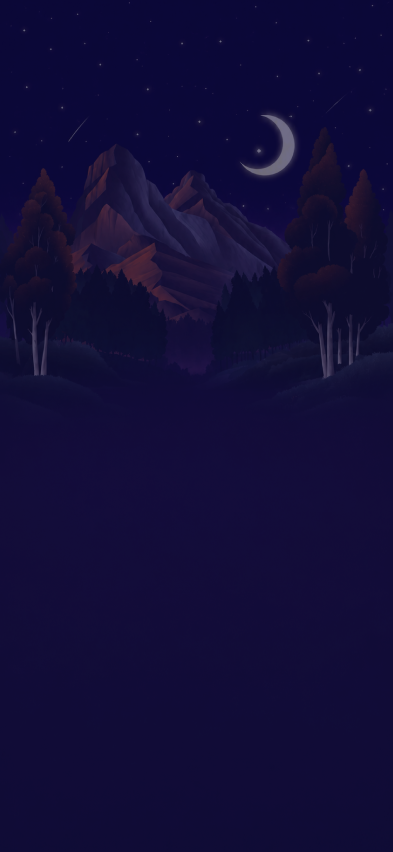
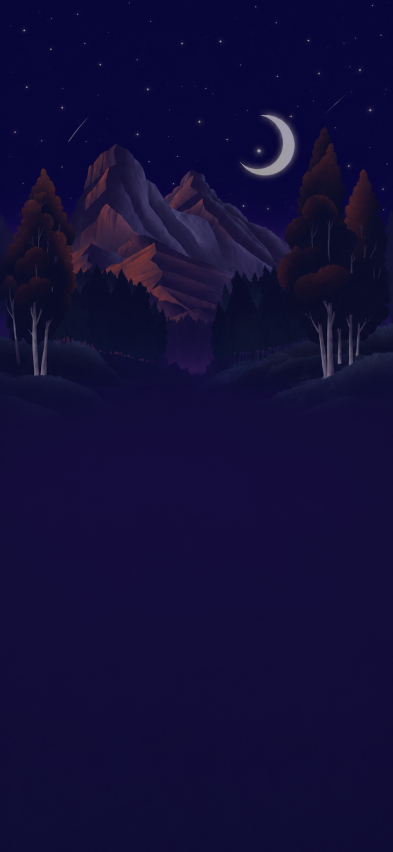
css updates

diff --git a/src/screens/ChaptersScreen.jsx b/src/screens/ChaptersScreen.jsx
@@ -3,7 +3,6 @@ import { useApp } from '../AppContext';
 import { StarsWrapper, TopBar, C } from '../components/shared';
 import { CHAPTERS } from '../data';
 import sofieImg from '../assets/sofie-startside.png';
-import sofieSmallImg from '../assets/sofie-startside-to.png';
 import kapitelGrotte from '../assets/kapitel-grotte.png';
 import kapitelAkademi from '../assets/kapitel-akademi.png';
 import kapitelDetEvige from '../assets/kapitel-detevige.png';
@@ -88,42 +87,29 @@ const expandGirl = () => updateState({ girlLarge: true });
         <TopBar />
 
         {/* Chapter grid */}
-        <div className={`scrollable flex-1 px-4 pb-5 ${state.girlLarge ? 'pointer-events-none' : ''}`}>
-          <h1 className="text-brand-accent text-4xl font-black mb-0.5 font-fredoka">Velkommen</h1>
+        <div className={`scrollable flex-1 px-4 pt-4 pb-5 ${state.girlLarge ? 'pointer-events-none' : ''}`}>
+          <h1 className="text-brand-accent text-5xl font-semibold mb-0.5 font-fredoka">Velkommen</h1>
           <p className="text-[#F0EAFF] text-base font-semibold font-opensans mb-4">Vælg et kapitel for at starte et spil</p>
 
-          <div style={{ display: 'grid', gridTemplateColumns: '1fr 1fr', gap: 10 }}>
+          <div className="grid grid-cols-2 gap-2.5">
             
             {/* Cave — stor venstre kort */}
-            <div style={{ gridRow: 'span 2', display: 'flex', flexDirection: 'column' }}>
+            <div className="row-span-2 flex flex-col">
               <button
                 onClick={handleCaveClick}
+                className="flex-1 relative flex flex-col justify-end items-start p-2.5 rounded-2xl overflow-hidden cursor-pointer min-h-[190px]"
                 style={{
-                  flex: 1,
                   backgroundImage: `url(${kapitelGrotte})`,
                   backgroundSize: 'cover',
                   backgroundPosition: 'center',
-                  borderRadius: 16,
                   border: '1.5px solid rgba(245,200,66,0.3)',
-                  overflow: 'hidden',
-                  position: 'relative',
-                  cursor: 'pointer',
-                  display: 'flex',
-                  flexDirection: 'column',
-                  justifyContent: 'flex-end',
-                  alignItems: 'flex-start',
-                  padding: 10,
-                  minHeight: 190,
                 }}
               >
                 <p className="text-[#F0EAFF] text-base font-fredoka font-bold leading-tight relative z-10 max-w-[120px] text-left">
                   {CHAPTERS[0].title}
                 </p>
-                <div style={{
-                  position: 'absolute', bottom: 10, right: 10, width: 24, height: 24, borderRadius: '50%',
-                  background: 'rgba(255,255,255,0.2)', display: 'flex', alignItems: 'center', justifyContent: 'center',
-                }}>
-                  <span style={{ fontSize: 10, marginLeft: 1 }}>▶</span>
+                <div className="absolute bottom-2 right-2 w-7 h-7 rounded-full flex items-center justify-center bg-white/20">
+                  <span className="text-base ml-px">▶</span>
                 </div>
               </button>
             </div>
@@ -151,17 +137,13 @@ const expandGirl = () => updateState({ girlLarge: true });
 
               {/* Tekst i taleboble */}
               <div
-                style={{
-                  position: 'absolute',
-                  top: '4%', left: '42%', right: '11%', height: '22%',
-                  padding: '8px 10px',
-                  overflow: 'hidden',
-                }}
+                className="absolute overflow-hidden"
+                style={{ top: '4%', left: '42%', right: '13%', height: '22%', padding: '8px 10px' }}
               >
                 <p
+                  className="font-opensans font-semibold"
                   style={{
                     fontSize: 11.5,
-                    fontWeight: 600,
                     lineHeight: 1.4,
                     color: '#1A1A1A',
                     wordBreak: 'break-word',
@@ -177,19 +159,8 @@ const expandGirl = () => updateState({ girlLarge: true });
               {/* Fortsæt knap */}
               <button
                 onClick={shrinkGirl}
-                style={{
-                  position: 'absolute',
-                  top: '27%', left: '44%',
-                  background: 'none',
-                  border: 'none',
-                  outline: 'none',
-                  padding: 0,
-                  fontSize: 14,
-                  fontFamily: 'Open Sans, sans-serif',
-                  color: '#1A1A1A',
-                  cursor: 'pointer',
-                  zIndex: 10,
-                }}
+                className="absolute bg-transparent border-none outline-none p-0 cursor-pointer z-10 font-opensans font-bold text-[14px]"
+                style={{ top: '27%', left: '44%', color: '#1A1A1A' }}
               >
                 Fortsæt →
               </button>
@@ -203,12 +174,7 @@ const expandGirl = () => updateState({ girlLarge: true });
             onClick={expandGirl}
             className="absolute bottom-0 left-0 bg-transparent border-none outline-none p-0 cursor-pointer z-20"
           >
-            <img
-              src={sofieVinkerImg}
-              alt="Sofie"
-              draggable={false}
-              className=" w-auto block"
-            />
+            <img src={sofieVinkerImg} alt="Sofie" draggable={false} className="w-auto block" />
           </button>
         )}
       </div>

diff --git a/src/screens/BadgesScreen.jsx b/src/screens/BadgesScreen.jsx
@@ -11,20 +11,34 @@ export default function BadgesScreen() {
       <div className="flex-1 flex flex-col overflow-hidden">
         <TopBar />
 
-        <div className="scrollable flex-1 px-5 pt-1 pb-3">
-          <h1 className="text-brand-accent text-4xl font-black mb-5">Badges</h1>
+        <div className="scrollable flex-1 px-5 pt-16 pb-3">
+          <h1 className="text-brand-accent flex justify-center text-5xl font-semibold font-fredoka mb-5">Badges</h1>
 
           {/* Stats */}
-          <div className="flex gap-4 mb-6">
-            <div className="flex-1 bg-brand-navy rounded-2xl px-3 py-4 text-center"
-                 style={{ border: `2px solid ${C.accent}` }}>
-              <p className="text-brand-sub text-xs font-bold mb-1">Badges</p>
-              <p className="text-brand-accent text-4xl font-black">{state.badges}</p>
+          <div className="flex gap-10 justify-center w-full mt-16 mb-10">
+            <div
+              className="w-[90px] bg-brand-navy rounded-xl text-center relative"
+              style={{ border: `2px solid ${C.accent}`, padding: '8px 12px' }}
+            >
+              <p className="absolute -top-7 left-0 right-0 text-center text-base font-opensans"
+                style={{ color: '#F0EAFF' }}>
+                Badges
+              </p>
+              <p className="text-brand-accent text-2xl font-black font-fredoka">
+                {state.badges}
+              </p>
             </div>
-            <div className="flex-1 bg-brand-navy rounded-2xl px-3 py-4 text-center"
-                 style={{ border: `2px solid ${C.accent}` }}>
-              <p className="text-brand-sub text-xs font-bold mb-1">Point</p>
-              <p className="text-brand-accent text-4xl font-black">{state.points}</p>
+            <div
+              className="w-[90px] bg-brand-navy rounded-xl text-center relative"
+              style={{ border: `2px solid ${C.accent}`, padding: '8px 12px' }}
+            >
+              <p className="absolute -top-7 left-0 right-0 text-center text-base font-opensans"
+                style={{ color: '#F0EAFF' }}>
+                Point
+              </p>
+              <p className="text-brand-accent text-2xl font-black font-fredoka">
+                {state.points}
+              </p>
             </div>
           </div>
 
@@ -42,8 +56,8 @@ export default function BadgesScreen() {
             <div className="bg-brand-navy rounded-2xl px-4 py-4 flex items-center gap-3 border border-white/[0.08] opacity-50">
               <span className="text-4xl">🔒</span>
               <div className="flex-1">
-                <p className="text-white text-base font-extrabold">Hulelignelsen</p>
-                <p className="text-brand-sub text-xs font-semibold">Gennemfør quizzen for at låse op</p>
+                <p className="text-[#AA85FF] text-base font-opensans font-extrabold">Hulelignelsen</p>
+                <p className="text-brand-sub text-sm font-opensans font-semibold">Gennemfør quizzen for at låse op</p>
               </div>
             </div>
           )}

diff --git a/src/screens/HjemScreen.jsx b/src/screens/HjemScreen.jsx
@@ -18,7 +18,7 @@ export default function HjemScreen() {
                style={{ fontSize: 120, textShadow: '0 4px 20px rgba(245,200,66,0.4)' }}>
               {state.points}
             </p>
-            <p className="text-white text-xl font-fredoka mt-1">Point</p>
+            <p className="text-brand-sub text-3xl font-fredoka font-semibold mt-1">Point</p>
           </div>
 
           {/* Stat cards */}
@@ -28,12 +28,10 @@ export default function HjemScreen() {
               className="w-[90px] bg-brand-navy rounded-xl text-center relative"
               style={{ border: `2px solid ${C.accent}`, padding: '8px 12px' }}
             >
-              <p className="absolute -top-7 left-0 right-0 text-center text-base" 
-                style={{ color: '#F0EAFF', fontFamily: 'Open Sans, sans-serif' }}>
+              <p className="absolute -top-7 left-0 right-0 text-center text-base font-opensans text-[#F0EAFF]">
                 Badges
               </p>
-              <p className="text-brand-accent text-2xl font-black" 
-                style={{ fontFamily: 'Fredoka, sans-serif' }}>
+              <p className="text-brand-accent text-2xl font-black font-fredoka">
                 {state.badges}
               </p>
             </button>
@@ -42,12 +40,11 @@ export default function HjemScreen() {
               className="w-[90px] bg-brand-navy rounded-xl text-center relative"
               style={{ border: `2px solid ${C.accent}`, padding: '8px 12px' }}
             >
-              <p className="absolute -top-7 left-0 right-0 text-center text-base" 
-                style={{ color: '#F0EAFF', fontFamily: 'Open Sans, sans-serif', left: '-30px', right: '-30px' }}>
+              <p className="absolute -top-7 text-center text-base font-opensans text-[#F0EAFF]"
+                style={{ left: '-30px', right: '-30px' }}>
                 Anmodninger
               </p>
-              <p className="text-brand-accent text-2xl font-black" 
-                style={{ fontFamily: 'Fredoka, sans-serif' }}>
+              <p className="text-brand-accent text-2xl font-black font-fredoka">
                 {state.friendRequests}
               </p>
             </button>
@@ -56,9 +53,8 @@ export default function HjemScreen() {
           {/* Character circle — tap to open character select */}
           <button
             onClick={() => openCharacterSelect('hjem')}
-            className="relative flex items-center justify-center mb-12"
-            style={{ background: 'none', border: 'none', padding: 0 }}
-          >
+            className="relative flex items-center justify-center mb-12 bg-transparent border-none p-0"
+            >
             <img src={profilBaggrund} alt="Baggrund" className="w-[160px] h-[160px] object-contain" />
             <div className="absolute" style={{ bottom: '-100px' }}>
               <CharacterEmoji id={state.selectedCharacter} size={260} />

diff --git a/src/components/shared.jsx b/src/components/shared.jsx
@@ -76,28 +76,26 @@ export function BottomNav({ active }) {
 
 export function StarsWrapper({ children, style }) {
   return (
-    <div style={{ 
-      position: 'relative', 
-      width: '100%', 
-      height: '100%', 
-      backgroundImage: `url(${stjerneBaggrund})`,
-      backgroundSize: 'cover',
-      backgroundPosition: 'center',
-      overflow: 'hidden', 
-      ...style 
-    }}>
-      <div style={{ position: 'relative', zIndex: 1, height: '100%', display: 'flex', flexDirection: 'column' }}>
+    <div
+      className="relative w-full h-full overflow-hidden"
+      style={{
+        backgroundImage: `url(${stjerneBaggrund})`,
+        backgroundSize: 'cover',
+        backgroundPosition: 'center',
+        ...style
+      }}
+    >
+      <div className="relative z-[1] h-full flex flex-col">
         {children}
       </div>
     </div>
   );
 }
 
-
-export function MountainScene({ fullscreen = false }) {
+export function MountainScene() {
   return (
     <div className="absolute inset-0 z-0">
-      <img src={mountainBg} alt="" className="w-full h-full object-cover" />
+      <img src={mountainBg} alt="bjerg" className="w-full h-full object-cover" />
     </div>
   );
 }
@@ -162,7 +160,7 @@ export function PeopleIcon({ size = 26, color = '#F0EAFF' }) {
 }
 
 
-export function SearchIcon({ size = 18, color = '#C4BFEF' }) {
+export function SearchIcon({ size = 18, color = '#F0EAFF' }) {
   return (
     <svg width={size} height={size} viewBox="0 0 24 24" fill="none">
       <circle cx="11" cy="11" r="7" stroke={color} strokeWidth="2" />
@@ -171,11 +169,4 @@ export function SearchIcon({ size = 18, color = '#C4BFEF' }) {
   );
 }
 
-export function PencilIcon({ size = 16, color = 'white' }) {
-  return (
-    <svg width={size} height={size} viewBox="0 0 24 24" fill="none">
-      <path d="M11 4H4a2 2 0 00-2 2v14a2 2 0 002 2h14a2 2 0 002-2v-7" stroke={color} strokeWidth="2" strokeLinecap="round" />
-      <path d="M18.5 2.5a2.121 2.121 0 013 3L12 15l-4 1 1-4 9.5-9.5z" stroke={color} strokeWidth="2" strokeLinecap="round" strokeLinejoin="round" />
-    </svg>
-  );
-}
+

diff --git a/src/screens/CompletionScreen.jsx b/src/screens/CompletionScreen.jsx
@@ -36,8 +36,8 @@ export default function CompletionScreen() {
 
           {/* Title */}
           <div className="text-center">
-            <h1 className="text-white text-4xl font-fredoka font-black mb-1">Modul gennemført!</h1>
-            <p className="text-brand-sub text-sm font-semibold">
+            <h1 className="text-white text-4xl font-fredoka font-semibold mb-1">Modul gennemført!</h1>
+            <p className="text-brand-sub text-base font-opensans font-semibold">
               Du klarede {correct} af {total} spørgsmål rigtigt
             </p>
           </div>
@@ -52,11 +52,11 @@ export default function CompletionScreen() {
           {/* Stat cards */}
           <div className="flex gap-3 w-full">
             <div className="flex-1 bg-brand-navy rounded-2xl px-3 py-4 text-center border border-white/[0.08]">
-              <p className="text-white text-4xl font-black">{xpEarned}</p>
+              <p className="text-brand-sub text-4xl font-semibold font-fredoka">{xpEarned}</p>
               <p className="text-brand-sub text-sm font-semibold mt-1">XP optjent</p>
             </div>
             <div className="flex-1 bg-brand-navy rounded-2xl px-3 py-4 text-center border border-white/[0.08]">
-              <p className="text-white text-4xl font-black">{correct}/{total}</p>
+              <p className="text-brand-sub text-4xl font-semibold font-fredoka">{correct}/{total}</p>
               <p className="text-brand-sub text-sm font-semibold mt-1">rigtige svar</p>
             </div>
           </div>

diff --git a/src/screens/IndstillingerScreen.jsx b/src/screens/IndstillingerScreen.jsx
@@ -1,6 +1,6 @@
 import React, { useState } from 'react';
 import { useApp } from '../AppContext';
-import { StarsWrapper, TopBar, BottomNav, CharacterEmoji, PencilIcon, C } from '../components/shared';
+import { StarsWrapper, TopBar, BottomNav, CharacterEmoji, C } from '../components/shared';
 
 function Toggle({ on, onToggle }) {
   return (
@@ -46,7 +46,6 @@ export default function IndstillingerScreen() {
                 onClick={() => openCharacterSelect('settings')}
                 className="absolute bottom-0.5 right-0.5 w-7 h-7 rounded-full bg-brand-card flex items-center justify-center border border-white/20"
               >
-                <PencilIcon size={12} color="white" />
               </button>
             </div>
           </div>
@@ -72,7 +71,6 @@ export default function IndstillingerScreen() {
                 <div className="flex items-center justify-between">
                   <p className="text-white text-base font-extrabold">{state.username}</p>
                   <button onClick={() => setEditing(true)} className="bg-transparent p-1">
-                    <PencilIcon size={18} color={C.accent} />
                   </button>
                 </div>
               </div>

diff --git a/src/screens/ScoreboardScreen.jsx b/src/screens/ScoreboardScreen.jsx
@@ -27,15 +27,15 @@ export default function ScoreboardScreen() {
                 key={player.username}
                 className="flex items-center justify-between rounded-2xl px-5 py-4"
                 style={{
-                  background: player.isUser ? C.accent : '#1A1848',
+                  background: player.isUser ? C.accent : '#17143A',
                   border: player.isUser ? 'none' : `1.5px solid ${C.accent}`,
                 }}
               >
                 <div className="flex items-center gap-3">
-                  <span className={`text-sm font-black ${player.isUser ? 'text-brand-dark' : 'text-brand-sub'}`}>
+                  <span className={`text-base font-fredoka font-black ${player.isUser ? 'text-brand-dark' : 'text-brand-sub'}`}>
                     #{i + 1}
                   </span>
-                  <span className={`text-base font-extrabold ${player.isUser ? 'text-brand-dark' : 'text-white'}`}>
+                  <span className={`text-base font-extrabold ${player.isUser ? 'text-brand-dark' : 'text-brand-sub'}`}>
                     {player.username}
                   </span>
                 </div>

diff --git a/src/screens/CharacterSelectScreen.jsx b/src/screens/CharacterSelectScreen.jsx
@@ -15,7 +15,7 @@ export default function CharacterSelectScreen() {
   return (
     <StarsWrapper>
       <div className="flex-1 flex flex-col items-center px-5 py-6 gap-5">
-        <p className="text-brand-accent text-2xl font-black">Vælg din karakter</p>
+        <h1 className="text-brand-accent flex justify-center text-4xl font-semibold font-fredoka mb-5">Vælg din karakter</h1>
 
         <div className="grid grid-cols-2 gap-3 w-full flex-1">
           {CHARACTERS.map((ch) => {
@@ -39,7 +39,7 @@ export default function CharacterSelectScreen() {
 
         <button
           onClick={handleVaelg}
-          className="w-full py-[18px] rounded-full text-lg font-black text-brand-dark"
+          className="w-full py-[18px] rounded-full text-lg font-black font-opensans text-brand-dark"
           style={{ background: C.accent, boxShadow: '0 4px 16px rgba(245,200,66,0.4)' }}
         >
           Vælg

diff --git a/src/screens/InviterScreen.jsx b/src/screens/InviterScreen.jsx
@@ -77,7 +77,7 @@ export default function InviterScreen() {
               value={search}
               onChange={e => setSearch(e.target.value)}
               placeholder="Søg..."
-              className="flex-1 bg-transparent text-white text-sm font-opensans placeholder:text-brand-sub/60"
+              className="flex-1 bg-transparent text-brand-sub text-sm font-opensans placeholder:text-brand-sub"
             />
             <SearchIcon />
           </div>
